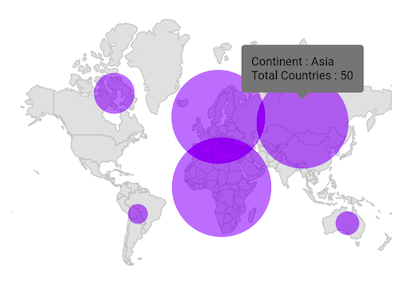
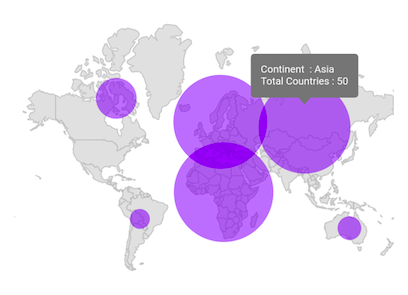
Latest source merged from Syncfusion

diff --git a/Flutter/maps/legend.md b/Flutter/maps/legend.md
@@ -174,6 +174,8 @@ Widget build(BuildContext context) {
 {% endhighlight %}
 {% endtabs %}
 
+![Bar shape legend](images/legend/bar-shape-legend.png)
+
 N>
 * Refer the [`MapLegend`](https://pub.dev/documentation/syncfusion_flutter_maps/latest/maps/MapLegend/MapLegend.html), for showing default legend.
 
@@ -241,6 +243,8 @@ class Model {
 
 {% endhighlight %}
 {% endtabs %}
+
+![Bar bubble legend](images/legend/bar-bubble-legend.png)
 
 N>
 * Refer the [`MapLegend`](https://pub.dev/documentation/syncfusion_flutter_maps/latest/maps/MapLegend/MapLegend.html), for showing default legend.
@@ -644,7 +648,8 @@ Widget build(BuildContext context) {
                   legend: MapLegend.bar(
                     MapElement.shape,
                     position: MapLegendPosition.bottom,
-                    overflowMode: MapLegendOverflowMode.wrap,
+                    edgeLabelsPlacement: MapLegendEdgeLabelsPlacement.center,
+                    overflowMode: MapLegendOverflowMode.scroll,
                   ),
                 )
               ],
@@ -665,6 +670,8 @@ class Model {
 {% endhighlight %}
 {% endtabs %}
 
+![Bar legend overflow mode](images/legend/bar-legend-overflow-mode.gif)
+
 N>
 * Refer the [`iconSize`](https://pub.dev/documentation/syncfusion_flutter_maps/latest/maps/MapLegend/MapLegend.html), for setting the size of the icon.
 
@@ -672,12 +679,12 @@ N>
 
 N> Legend toggling is not applicable for bar type legend.
 
-You can enable toggling the legend items and the corresponding shapes or bubbles using the [`enableToggleInteraction`](https://pub.dev/documentation/syncfusion_flutter_maps/latest/maps/MapLegend/MapLegend.html) argument in the constructor(https://pub.dev/documentation/syncfusion_flutter_maps/latest/maps/MapLegend/MapLegend.html). The default value of the [`enableToggleInteraction`](https://pub.dev/documentation/syncfusion_flutter_maps/latest/maps/MapLegend/MapLegend.html) argument in the constructor(https://pub.dev/documentation/syncfusion_flutter_maps/latest/maps/MapLegend/MapLegend.html) is `false`. You can customize the toggled shapes or bubbles using the following properties:
+You can enable toggling the legend items and the corresponding shapes or bubbles using the [`enableToggleInteraction`](https://pub.dev/documentation/syncfusion_flutter_maps/latest/maps/MapLegend/MapLegend.html) argument in the [`constructor`](https://pub.dev/documentation/syncfusion_flutter_maps/latest/maps/MapLegend/MapLegend.html). The default value of the [`enableToggleInteraction`](https://pub.dev/documentation/syncfusion_flutter_maps/latest/maps/MapLegend/MapLegend.html) argument in the [`constructor`](https://pub.dev/documentation/syncfusion_flutter_maps/latest/maps/MapLegend/MapLegend.html) is `false`. You can customize the toggled shapes or bubbles using the following properties:
 
-* **Toggled item color** - Change the color for the toggled legend item's icon and it's shape or bubble using the [`toggledItemColor`](https://pub.dev/documentation/syncfusion_flutter_maps/latest/maps/MapLegend/MapLegend.html) argument in the constructor(https://pub.dev/documentation/syncfusion_flutter_maps/latest/maps/MapLegend/MapLegend.html).
-* **Toggled item stroke color** - Change the stroke color which applies to the toggled legend item's shape or bubble using the [`toggledItemStrokeColor`](https://pub.dev/documentation/syncfusion_flutter_maps/latest/maps/MapLegend/MapLegend.html) argument in the constructor(https://pub.dev/documentation/syncfusion_flutter_maps/latest/maps/MapLegend/MapLegend.html).
-* **Toggled item stroke width** - Change the stroke width which applies to the toggled legend item's shape or bubble using the [`toggledItemStrokeWidth`](https://pub.dev/documentation/syncfusion_flutter_maps/latest/maps/MapLegend/MapLegend.html) argument in the constructor(https://pub.dev/documentation/syncfusion_flutter_maps/latest/maps/MapLegend/MapLegend.html).
-* **Toggled item opacity** - Change the opacity of the toggled legend item's shape or bubble using the [`toggledItemOpacity`](https://pub.dev/documentation/syncfusion_flutter_maps/latest/maps/MapLegend/MapLegend.html) argument in the constructor(https://pub.dev/documentation/syncfusion_flutter_maps/latest/maps/MapLegend/MapLegend.html).
+* **Toggled item color** - Change the color for the toggled legend item's icon and it's shape or bubble using the [`toggledItemColor`](https://pub.dev/documentation/syncfusion_flutter_maps/latest/maps/MapLegend/MapLegend.html) argument in the [`constructor`](https://pub.dev/documentation/syncfusion_flutter_maps/latest/maps/MapLegend/MapLegend.html).
+* **Toggled item stroke color** - Change the stroke color which applies to the toggled legend item's shape or bubble using the [`toggledItemStrokeColor`](https://pub.dev/documentation/syncfusion_flutter_maps/latest/maps/MapLegend/MapLegend.html) argument in the [`constructor`](https://pub.dev/documentation/syncfusion_flutter_maps/latest/maps/MapLegend/MapLegend.html).
+* **Toggled item stroke width** - Change the stroke width which applies to the toggled legend item's shape or bubble using the [`toggledItemStrokeWidth`](https://pub.dev/documentation/syncfusion_flutter_maps/latest/maps/MapLegend/MapLegend.html) argument in the [`constructor`](https://pub.dev/documentation/syncfusion_flutter_maps/latest/maps/MapLegend/MapLegend.html).
+* **Toggled item opacity** - Change the opacity of the toggled legend item's shape or bubble using the [`toggledItemOpacity`](https://pub.dev/documentation/syncfusion_flutter_maps/latest/maps/MapLegend/MapLegend.html) argument in the [`constructor`](https://pub.dev/documentation/syncfusion_flutter_maps/latest/maps/MapLegend/MapLegend.html).
 
 {% tabs %}
 {% highlight Dart %}
@@ -1044,9 +1051,9 @@ class Model {
 
 You can customize the legend items using the following properties.
 
-* **iconType** - Used to change the icon shape. The default value of the [`iconType`](https://pub.dev/documentation/syncfusion_flutter_maps/latest/maps/MapLegend/MapLegend.html) argument in the constructor(https://pub.dev/documentation/syncfusion_flutter_maps/latest/maps/MapLegend/MapLegend.html) is `MapIconType.circle`. The possible values are `circle`, `rectangle`, `triangle`, and `diamond`.
-* **iconSize** - Used to change the size of the icon. The default value of [`iconSize`](https://pub.dev/documentation/syncfusion_flutter_maps/latest/maps/MapLegend/MapLegend.html) argument in the constructor(https://pub.dev/documentation/syncfusion_flutter_maps/latest/maps/MapLegend/MapLegend.html) is `Size(12.0, 12.0)`.
-* **spacing** - Used to provide space between the each legend items. The default value of the [`spacing`](https://pub.dev/documentation/syncfusion_flutter_maps/latest/maps/MapLegend/MapLegend.html) argument in the constructor(https://pub.dev/documentation/syncfusion_flutter_maps/latest/maps/MapLegend/MapLegend.html) is `10.0`.
+* **iconType** - Used to change the icon shape. The default value of the [`iconType`](https://pub.dev/documentation/syncfusion_flutter_maps/latest/maps/MapLegend/MapLegend.html) argument in the [`constructor`](https://pub.dev/documentation/syncfusion_flutter_maps/latest/maps/MapLegend/MapLegend.html) is `MapIconType.circle`. The possible values are `circle`, `rectangle`, `triangle`, and `diamond`.
+* **iconSize** - Used to change the size of the icon. The default value of [`iconSize`](https://pub.dev/documentation/syncfusion_flutter_maps/latest/maps/MapLegend/MapLegend.html) argument in the [`constructor`](https://pub.dev/documentation/syncfusion_flutter_maps/latest/maps/MapLegend/MapLegend.html) is `Size(12.0, 12.0)`.
+* **spacing** - Used to provide space between the each legend items. The default value of the [`spacing`](https://pub.dev/documentation/syncfusion_flutter_maps/latest/maps/MapLegend/MapLegend.html) argument in the [`constructor`](https://pub.dev/documentation/syncfusion_flutter_maps/latest/maps/MapLegend/MapLegend.html) is `10.0`.
 * **direction** - Used to arrange the legend items in either horizontal or vertical direction. The default value of [`direction`](https://pub.dev/documentation/syncfusion_flutter_maps/latest/maps/MapLegend/MapLegend.html) property is `horizontal`, if the value of the [`position`](https://pub.dev/documentation/syncfusion_flutter_maps/latest/maps/MapLegend/MapLegend.html) property is `top`, `bottom` and defaults to `vertical`, if the value of the [`position`](https://pub.dev/documentation/syncfusion_flutter_maps/latest/maps/MapLegend/MapLegend.html) property is `left` or `right`.
 * **padding** - Used to set padding around the legend. The default value of the [`padding`](https://pub.dev/documentation/syncfusion_flutter_maps/latest/maps/MapLegend/MapLegend.html) property is `EdgeInsets.all(10.0)`.
 
@@ -1221,6 +1228,8 @@ class Model {
 {% endhighlight %}
 {% endtabs %}
 
+![Bar legend solid type](images/legend/bar-legend-solid-type.png)
+
 ### Gradient
 
 You can set gradient color for the bar by using the [MapLegendPaintingStyle.gradient](https://pub.dev/documentation/syncfusion_flutter_maps/latest/maps/MapLegendPaintingStyle-class.html).
@@ -1245,27 +1254,23 @@ void initState() {
       Model('China', 148)
    ];
 
-   _shapeSource = MapShapeSource.asset("assets/world_map.json",
-        shapeDataField: "name",
-        dataCount: _data.length,
-        primaryValueMapper: (int index) => _data[index].country,
-        shapeColorValueMapper: (int index) => _data[index].density,
-        shapeColorMappers: [
-          MapColorMapper(from: 0, to: 100, color: Colors.red, text: '< 100/km'),
-          MapColorMapper(
-              from: 101, to: 200, color: Colors.green, text: '100 - 200/km'),
-          MapColorMapper(
-              from: 201, to: 300, color: Colors.blue, text: '200 - 300/km'),
-          MapColorMapper(
-              from: 301, to: 400, color: Colors.orange, text: '300 - 400/km'),
-          MapColorMapper(
-              from: 401, to: 500, color: Colors.teal, text: '400 - 500/km'),
-          MapColorMapper(
-              from: 501,
-              to: 600,
-              color: Colors.deepPurple,
-              text: '500 - 600/km'),
-        ]);
+    _shapeSource = MapShapeSource.asset("assets/world_map.json",
+           shapeDataField: "name",
+           dataCount: _data.length,
+           primaryValueMapper: (int index) => _data[index].country,
+           shapeColorValueMapper: (int index) => _data[index].density,
+           shapeColorMappers: [
+             MapColorMapper(from: 0, to: 100, color: Colors.red, text: '< 100/km'),
+             MapColorMapper(
+                 from: 101, to: 200, color: Colors.green, text: '100 - 200/km'),
+             MapColorMapper(
+                 from: 201, to: 300, color: Colors.blue, text: '200 - 300/km'),
+             MapColorMapper(
+                 from: 301,
+                 to: 600,
+                 color: Colors.deepPurple,
+                 text: '300 - 600/km'),
+    ]);
 }
 
 @override
@@ -1282,6 +1287,8 @@ Widget build(BuildContext context) {
                   source: _shapeSource,
                   legend: MapLegend.bar(
                     MapElement.shape,
+                    labelsPlacement: MapLegendLabelsPlacement.betweenItems,
+                    edgeLabelsPlacement: MapLegendEdgeLabelsPlacement.center,
                     segmentPaintingStyle: MapLegendPaintingStyle.gradient,
                   ),
                 )
@@ -1303,14 +1310,16 @@ class Model {
 {% endhighlight %}
 {% endtabs %}
 
+![Bar legend gradient type](images/legend/bar-legend-gradient-type.png)
+
 ## Bar legend appearance customization
 
 You can customize the legend items using the following properties.
 
-* **segmentSize** - Used to change the size of individual bar segments. When gradient paint style is applied, [`segmentSize`] argument in the constructor(https://pub.dev/documentation/syncfusion_flutter_maps/latest/maps/MapLegend/MapLegend.bar.html) will update the whole bar.
-* **labelsPlacement** - Used to place the labels either between the segments or on the segments. The default value of the [`labelsPlacement`](https://pub.dev/documentation/syncfusion_flutter_maps/latest/maps/MapLegend/MapLegend.bar.html) argument in the constructor(https://pub.dev/documentation/syncfusion_flutter_maps/latest/maps/MapLegend/MapLegend.bar.html) will be `MapLegendLabelsPlacement.betweenItems` when setting range color mapper without setting color mapper text property. Otherwise, it will be `MapLegendLabelsPlacement.onItem`.
-* **labelOverflow** - Used to remove or trim the legend labels based on the bar legend size.The default value of the [`labelOverflow`](https://pub.dev/documentation/syncfusion_flutter_maps/latest/maps/MapLegend/MapLegend.bar.html) argument in the constructor(https://pub.dev/documentation/syncfusion_flutter_maps/latest/maps/MapLegend/MapLegend.bar.html) will be `MapLabelOverflow.hide`. 
-* **edgeLabelsPlacement** - Used to place the edge labels either inside or outside of the bar legend. The default value of the [`edgeLabelsPlacement`](https://pub.dev/documentation/syncfusion_flutter_maps/latest/maps/MapLegend/MapLegend.bar.html) argument in the constructor(https://pub.dev/documentation/syncfusion_flutter_maps/latest/maps/MapLegend/MapLegend.bar.html) will be `MapLegendEdgeLabelsPlacement.inside`.
+* **segmentSize** - Used to change the size of individual bar segments. When gradient paint style is applied, `segmentSize` argument in the [`constructor`](https://pub.dev/documentation/syncfusion_flutter_maps/latest/maps/MapLegend/MapLegend.bar.html) will update the whole bar.
+* **labelsPlacement** - Used to place the labels either between the segments or on the segments. The default value of the [`labelsPlacement`](https://pub.dev/documentation/syncfusion_flutter_maps/latest/maps/MapLegend/MapLegend.bar.html) argument in the [`constructor`](https://pub.dev/documentation/syncfusion_flutter_maps/latest/maps/MapLegend/MapLegend.bar.html) will be `MapLegendLabelsPlacement.betweenItems` when setting range color mapper without setting color mapper text property. Otherwise, it will be `MapLegendLabelsPlacement.onItem`.
+* **labelOverflow** - Used to remove or trim the legend labels based on the bar legend size.The default value of the [`labelOverflow`](https://pub.dev/documentation/syncfusion_flutter_maps/latest/maps/MapLegend/MapLegend.bar.html) argument in the [`constructor`](https://pub.dev/documentation/syncfusion_flutter_maps/latest/maps/MapLegend/MapLegend.bar.html) will be `MapLabelOverflow.hide`.
+* **edgeLabelsPlacement** - Used to place the edge labels either inside or outside of the bar legend. The default value of the [`edgeLabelsPlacement`](https://pub.dev/documentation/syncfusion_flutter_maps/latest/maps/MapLegend/MapLegend.bar.html) argument in the [`constructor`](https://pub.dev/documentation/syncfusion_flutter_maps/latest/maps/MapLegend/MapLegend.bar.html) will be `MapLegendEdgeLabelsPlacement.inside`.
 * **spacing** - Used to provide space between the each legend items. The default value of the [`spacing`](https://pub.dev/documentation/syncfusion_flutter_maps/latest/maps/MapLegend/spacing.html) is `2.0`. This is not applicable for gradient legend.
 * **direction** - Used to arrange the legend items in either horizontal or vertical direction. The default value of [`direction`](https://pub.dev/documentation/syncfusion_flutter_maps/latest/maps/MapLegend/direction.html) property is `horizontal`, if the value of the [`position`](https://pub.dev/documentation/syncfusion_flutter_maps/latest/maps/MapLegend/position.html) property is `top`, `bottom` and defaults to `vertical`, if the value of the [`position`](https://pub.dev/documentation/syncfusion_flutter_maps/latest/maps/MapLegend/position.html) property is `left` or `right`.
 * **padding** - Used to set padding around the legend. The default value of the [`padding`](https://pub.dev/documentation/syncfusion_flutter_maps/latest/maps/MapLegend/padding.html) property is `EdgeInsets.all(10.0)`.
@@ -1335,27 +1344,23 @@ void initState() {
       Model('China', 148)
    ];
 
-   _shapeSource = MapShapeSource.asset("assets/world_map.json",
-        shapeDataField: "name",
-        dataCount: _data.length,
-        primaryValueMapper: (int index) => _data[index].country,
-        shapeColorValueMapper: (int index) => _data[index].density,
-        shapeColorMappers: [
-          MapColorMapper(from: 0, to: 100, color: Colors.red, text: '< 100/km'),
-          MapColorMapper(
-              from: 101, to: 200, color: Colors.green, text: '100 - 200/km'),
-          MapColorMapper(
-              from: 201, to: 300, color: Colors.blue, text: '200 - 300/km'),
-          MapColorMapper(
-              from: 301, to: 400, color: Colors.orange, text: '300 - 400/km'),
-          MapColorMapper(
-              from: 401, to: 500, color: Colors.teal, text: '400 - 500/km'),
-          MapColorMapper(
-              from: 501,
-              to: 600,
-              color: Colors.deepPurple,
-              text: '500 - 600/km'),
-        ]);
+    _shapeSource = MapShapeSource.asset("assets/world_map.json",
+           shapeDataField: "name",
+           dataCount: _data.length,
+           primaryValueMapper: (int index) => _data[index].country,
+           shapeColorValueMapper: (int index) => _data[index].density,
+           shapeColorMappers: [
+             MapColorMapper(from: 0, to: 100, color: Colors.red, text: '< 100/km'),
+             MapColorMapper(
+                 from: 101, to: 200, color: Colors.green, text: '100 - 200/km'),
+             MapColorMapper(
+                 from: 201, to: 300, color: Colors.blue, text: '200 - 300/km'),
+             MapColorMapper(
+                 from: 301,
+                 to: 600,
+                 color: Colors.deepPurple,
+                 text: '300 - 600/km'),
+    ]);
 }
 
 @override
@@ -1372,7 +1377,6 @@ Widget build(BuildContext context) {
                   source: _shapeSource,
                   legend: MapLegend.bar(
                     MapElement.shape,
-                    segmentSize: Size(20, 5),
                     labelsPlacement: MapLegendLabelsPlacement.betweenItems,
                     edgeLabelsPlacement: MapLegendEdgeLabelsPlacement.center,
                     segmentPaintingStyle: MapLegendPaintingStyle.gradient,
@@ -1396,3 +1400,5 @@ class Model {
 
 {% endhighlight %}
 {% endtabs %}
+
+![Bar legend customization](images/legend/bar-legend-customization.png)

diff --git a/Flutter/datagrid/load-more.md b/Flutter/datagrid/load-more.md
@@ -11,11 +11,11 @@ documentation: ug
 
 The datagrid provides support to display an interactive view when the grid reaches its maximum offset while scrolling down. You can use [loadMoreViewBuilder](https://pub.dev/documentation/syncfusion_flutter_datagrid/latest/datagrid/SfDataGrid/loadMoreViewBuilder.html) builder to display the view at bottom of datagrid. 
 
-You should override the [DataGridSource.handleLoadMoreRows](https://pub.dev/documentation/syncfusion_flutter_datagrid/latest/datagrid/DataGridSource/handleLoadMoreRows.html) method to load more rows and then notify the datagrid about the changes. The `DataGridSource.handleLoadMoreRows` can be called to load more rows from this builder by using the [loadMoreRows](https://pub.dev/documentation/syncfusion_flutter_datagrid/latest/datagrid/LoadMoreRows.html) function which is passed as a parameter to this builder.
+You should override the [DataGridSource.handleLoadMoreRows](https://pub.dev/documentation/syncfusion_flutter_datagrid/latest/datagrid/DataGridSource/handleLoadMoreRows.html) method to load more rows and then notify the datagrid about the changes. The `DataGridSource.handleLoadMoreRows` can be called to load more rows from this builder by using the [loadMoreRows](https://pub.dev/documentation/syncfusion_flutter_datagrid/latest/datagrid/LoadMoreRows.html) function which is passed as a parameter to `loadMoreViewBuilder`.
 
 ## Infinite scrolling
 
-Infinite Scrolling is an approach that can be used to load more rows to the datagrid whenever the datagrid reaches the bottom without user interaction.
+Infinite Scrolling is an approach that can be used to load more rows to the datagrid whenever the datagrid reaches the bottom.
 
 The following example demonstrates infinite scrolling by showing the circular progress indicator until the rows are loaded when the datagrid reaches the bottom,
 
@@ -30,6 +30,9 @@ Widget build(BuildContext context) {
     source: employeeDataSource,
     loadMoreViewBuilder: (BuildContext context, LoadMoreRows loadMoreRows) {
       Future<String> loadRows() async {
+        // Call the loadMoreRows function to call the
+        // DataGridSource.handleLoadMoreRows method. So, additional
+        // rows can be added from handleLoadMoreRows method.
         await loadMoreRows();
         return Future<String>.value('Completed');
       }
@@ -198,6 +201,10 @@ Widget build(BuildContext context) {
                 child:
                     Text('LOAD MORE', style: TextStyle(color: Colors.white)),
                 onPressed: () async {
+                  // To avoid the "Error: setState() called after dispose():"
+                  // while scrolling the datagrid vertically and displaying the
+                  // load more view, current load more view is checked whether
+                  // loaded widget is mounted or not.
                   if (context is StatefulElement &&
                       context.state != null &&
                       context.state.mounted) {
@@ -205,7 +212,14 @@ Widget build(BuildContext context) {
                       showIndicator = true;
                     });
                   }
+                  // Call the loadMoreRows function to call the
+                  // DataGridSource.handleLoadMoreRows method. So, additional
+                  // rows can be added from handleLoadMoreRows method.
                   await loadMoreRows();
+                  // To avoid the "Error: setState() called after dispose():"
+                  // while scrolling the datagrid vertically and displaying the
+                  // load more view, current load more view is checked whether
+                  // loaded widget is mounted or not.
                   if (context is StatefulElement &&
                       context.state != null &&
                       context.state.mounted) {

diff --git a/Flutter/maps/shape-sublayer.md b/Flutter/maps/shape-sublayer.md
@@ -27,7 +27,7 @@ void initState() {
   super.initState();
 
   _sublayerSource = MapShapeSource.asset(
-      'assets/australia.json',
+      'assets/africa.json',
       shapeDataField: 'name',
   );
 }
@@ -55,6 +55,8 @@ return Scaffold(
 
 {% endhighlight %}
 {% endtabs %}
+
+![Tile sublayer support](images/shape-sublayer/tile-sublayer.png)
 
 N>
 * Refer the [`MapTileLayer`](https://pub.dev/documentation/syncfusion_flutter_maps/latest/maps/MapTileLayer-class.html), for adding tile layer in [`SfMaps`](https://pub.dev/documentation/syncfusion_flutter_maps/latest/maps/SfMaps-class.html).
@@ -108,6 +110,8 @@ return Scaffold(
 
 {% endhighlight %}
 {% endtabs %}
+
+![Shape sublayer support](images/shape-sublayer/shape-sublayer.png)
 
 N>
 * Refer the [`MapShapeLayer`](https://pub.dev/documentation/syncfusion_flutter_maps/latest/maps/MapShapeLayer-class.html), for adding shape layer in [`SfMaps`](https://pub.dev/documentation/syncfusion_flutter_maps/latest/maps/SfMaps-class.html).

diff --git a/Flutter/maps/bubble.md b/Flutter/maps/bubble.md
@@ -104,6 +104,7 @@ void initState() {
 
 @override
 Widget build(BuildContext context) {
+  final ThemeData themeData = Theme.of(context);
   return Scaffold(
     body: Padding(
       padding: EdgeInsets.only(left: 15, right: 15),
@@ -117,7 +118,9 @@ Widget build(BuildContext context) {
                   child: Text('Continent : ' +
                      data[index].continent +
                      '\nTotal Countries : ' +
-                     data[index].countriesCount.toStringAsFixed(0)),
+                     data[index].countriesCount.toStringAsFixed(0),
+                     style: themeData.textTheme.caption
+                        .copyWith(color: themeData.colorScheme.surface)),
                );
             },
           ),
